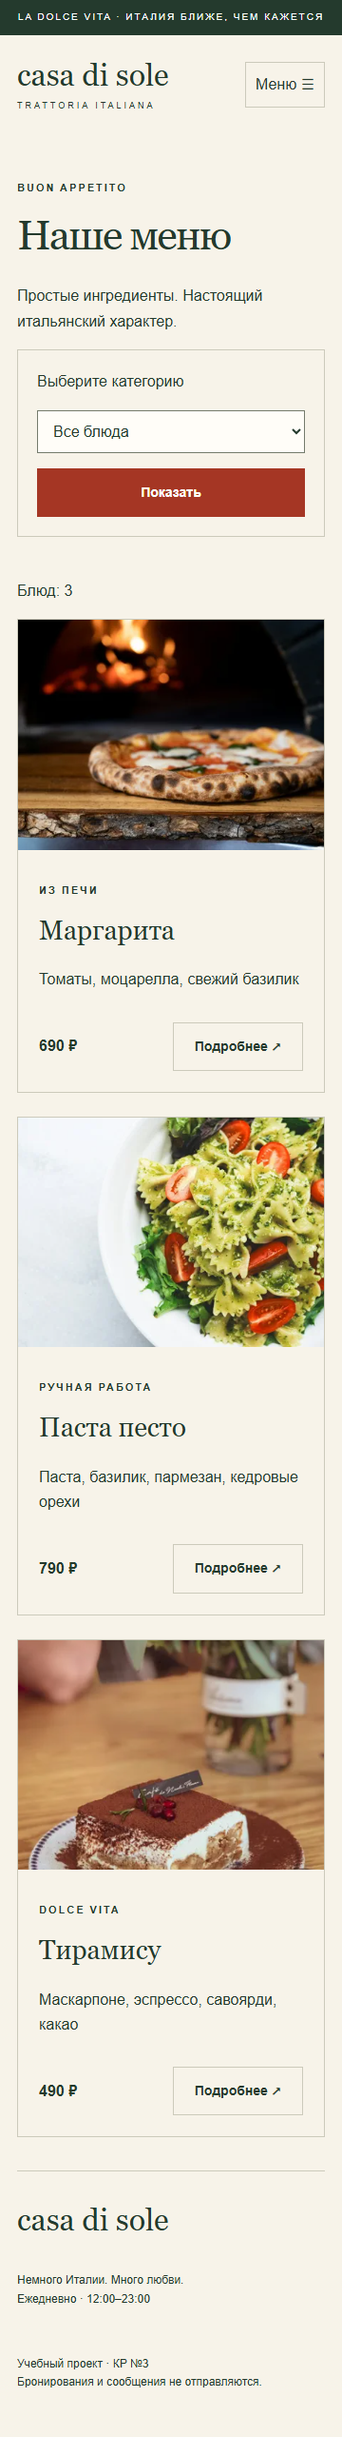
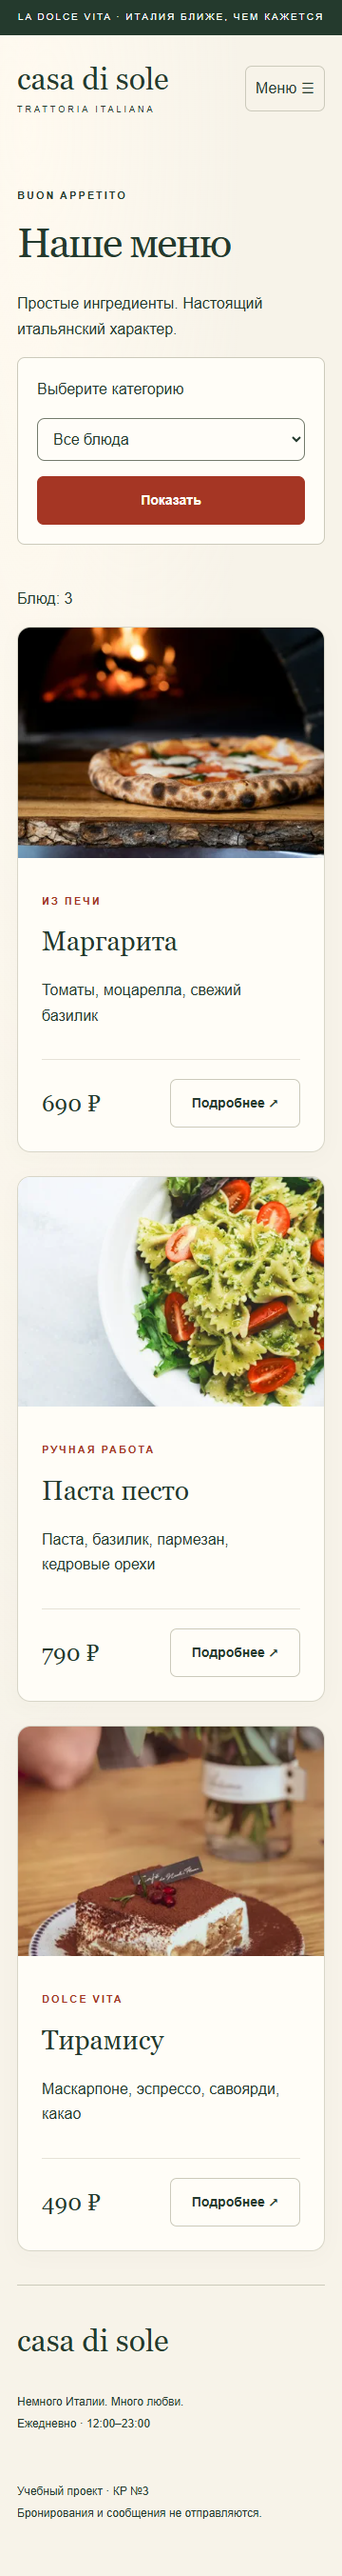
style: refine Italian restaurant cards hero and forms

diff --git a/css/style.css b/css/style.css
@@ -1,3 +1,24 @@
 :root{--paper:#f7f3e9;--ink:#243a2d;--red:#a53624;--line:#cccabb}*{box-sizing:border-box}body{margin:0;background:var(--paper);color:var(--ink);font:16px/1.65 Arial,sans-serif}a{color:inherit;text-underline-offset:5px}button,input,select,textarea{font:inherit}button,a,input,select,textarea{-webkit-tap-highlight-color:transparent}img{display:block;max-width:100%;height:auto;object-fit:cover}h1,h2,.brand{font-family:Georgia,serif;font-weight:400;line-height:1.05}h1{font-size:clamp(44px,7vw,94px);margin:18px 0 28px;letter-spacing:-2px}h2{font-size:32px}em{color:var(--red);font-weight:400}.container{width:min(1280px,90%);margin:auto}.announcement{text-align:center;background:var(--ink);color:#fff;padding:10px;font-size:10px;letter-spacing:2px}header{display:flex;align-items:center;justify-content:space-between;flex-wrap:wrap;gap:20px;padding:26px 0}.brand{font-size:32px;text-decoration:none}.brand span{display:block;font:9px Arial;letter-spacing:3px;margin-top:10px}nav{display:flex;flex-wrap:wrap;gap:24px}nav a{text-decoration:none;font-size:14px;padding:10px 0}nav a[aria-current]{color:var(--red);text-decoration:underline}.menu-toggle{border:1px solid var(--line);padding:10px;background:transparent;color:var(--ink)}.hero{border-top:1px solid var(--line);display:grid}.hero-copy{padding:35px 0}.hero-copy>p:not(.eyebrow){max-width:410px}.eyebrow{font-size:11px;letter-spacing:2px;text-transform:uppercase;font-weight:bold}.button{display:inline-block;background:var(--red);color:white;border:1px solid var(--red);text-decoration:none;padding:13px 22px;cursor:pointer;font-weight:600;font-size:14px}.text-link{display:inline-block;margin:18px}.secondary{background:transparent;color:var(--ink);border-color:var(--line)}.hero-image{position:relative;min-width:0}.hero-image img{width:100%;height:100%;max-height:650px}.image-note{position:absolute;bottom:20px;left:20px;right:20px;background:var(--paper);padding:12px;text-align:center;font:italic 16px Georgia}.benefits{display:flex;flex-wrap:wrap;justify-content:space-between;border-bottom:1px solid var(--line);padding:20px 0;gap:12px;font-size:13px}.section{padding:55px 0}.section-heading{display:flex;align-items:center;justify-content:space-between;gap:20px}.cards{display:grid;gap:25px}.card{border:1px solid var(--line);display:flex;flex-direction:column;min-width:0}.card img{width:100%;aspect-ratio:4/3}.card-body{padding:22px;display:flex;flex-direction:column;flex:1}.card h2{font-size:28px;margin:8px 0}.card h2 a{text-decoration:none}.card-bottom{display:flex;align-items:center;justify-content:space-between;gap:10px;margin-top:auto;padding-top:15px}.story{background:#e5e8dc;text-align:center;padding:45px 24px;margin-bottom:50px}.story p{max-width:650px;margin:20px auto}footer{display:flex;flex-wrap:wrap;justify-content:space-between;gap:24px;padding:35px 0;border-top:1px solid var(--line);font-size:12px}.filters{display:flex;align-items:center;gap:16px;flex-wrap:wrap;margin:30px 0}.field{display:flex;flex-direction:column;gap:8px;margin-bottom:20px}input,select,textarea{width:100%;min-width:0;padding:12px;border:1px solid #747b6c;background:#fffdf8;color:var(--ink);border-radius:0}select{width:auto;max-width:100%}.product-layout{display:grid;gap:35px;margin-top:30px}.product-layout>*{min-width:0}.price{font:32px Georgia}.table-wrapper{overflow:auto}table{border-collapse:collapse;width:100%;text-align:left}caption{text-align:left;font-weight:bold}td,th{padding:14px 10px;border-bottom:1px solid var(--line)}.narrow{max-width:800px;margin:auto}.form-grid{display:grid;gap:0 20px}.contact-form{margin-top:25px}.form-status{font-weight:bold}.skip-link{position:fixed;top:0;left:12px;transform:translateY(-150%);background:var(--ink);color:white;padding:12px;z-index:10}.skip-link:focus{transform:none}:focus-visible{outline:3px solid #1464a0;outline-offset:5px}[hidden]{display:none!important}
 
 video{max-width:100%;height:auto}.catalog-layout{display:grid;gap:28px}.catalog-layout>*{min-width:0}.catalog-layout .filters{align-items:stretch;flex-direction:column;padding:20px;border:1px solid var(--line);margin:0}.catalog-layout select{width:100%}
+/* Тёплая палитра траттории: небольшое обновление оформления. */
+body{background:radial-gradient(ellipse at 8% 5%,#fffaf0 0,transparent 48%),var(--paper)}
+header.container{padding-top:30px;padding-bottom:30px}
+header nav a:last-child{border:1px solid var(--ink);border-radius:40px;padding:10px 20px}
+.hero{gap:20px}.hero-copy{align-self:center}.hero-copy .eyebrow{color:var(--red)}
+.hero-image{border-radius:180px 180px 18px 18px;overflow:hidden;box-shadow:0 20px 45px #243a2d14}
+.hero-image img{min-height:360px}.image-note{border-radius:8px;background:#fffaf0f2;padding:17px 12px}
+.button{border-radius:7px;transition:background-color .18s,box-shadow .18s}
+.button:hover{background:#852918;color:#fff;box-shadow:0 5px 16px #a5362420}
+.secondary:hover{background:var(--ink);border-color:var(--ink)}
+.benefits{margin-top:16px;padding:24px 0}.benefits p{letter-spacing:.3px}
+.card{border-color:#d8d6c8;border-radius:14px;background:#fffdf7;box-shadow:0 5px 20px #243a2d06}
+.card img{border-radius:13px 13px 0 0}.card-body{padding:25px}.card .eyebrow{color:var(--red)}
+.card-bottom{border-top:1px solid #e6e2d7;margin-top:16px;padding-top:20px}.card-bottom strong{font:24px Georgia,serif}
+.story{border-radius:18px;background:var(--ink);color:#fffaf0;padding:62px 28px;position:relative}
+.story .eyebrow{color:#e6c897}.story h2{font-size:clamp(30px,4vw,46px)}
+.story::before{content:'✳';display:block;color:#e6c897;font-size:36px;line-height:1}
+input,select,textarea,.catalog-layout .filters{border-radius:8px}.catalog-layout .filters{background:#fffdf7}
+.contact-form{padding:26px;border:1px solid var(--line);border-radius:14px;background:#fffdf7}
+#dish-image img{border-radius:16px}.menu-toggle{border-radius:7px}
+footer.container{padding-top:42px;padding-bottom:42px}footer p{line-height:1.9}

diff --git a/css/responsive.css b/css/responsive.css
@@ -8,3 +8,5 @@
 @media(min-width:1000px){.catalog-layout{grid-template-columns:230px minmax(0,1fr)}.catalog-layout .cards{grid-template-columns:repeat(2,minmax(0,1fr))}}
 @media(max-width:639px){.table-wrapper table,.table-wrapper tbody{display:block}.table-wrapper tr{display:grid;grid-template-columns:1fr;margin:12px 0;border:1px solid var(--line)}.table-wrapper th,.table-wrapper td{display:block;border:0;padding:8px 14px}.table-wrapper th{background:#e5e8dc}}
 @media(max-width:639px){.table-wrapper caption{display:block;width:100%;padding-bottom:8px}}
+@media(max-width:639px){.hero{gap:0}.hero-image{border-radius:130px 130px 12px 12px}.hero-image img{min-height:310px}.contact-form{padding:18px}.story{padding:40px 22px}header nav a:last-child{align-self:flex-start;margin-top:8px}}
+@media(prefers-reduced-motion:reduce){*,*::before,*::after{transition:none!important;animation:none!important}}
